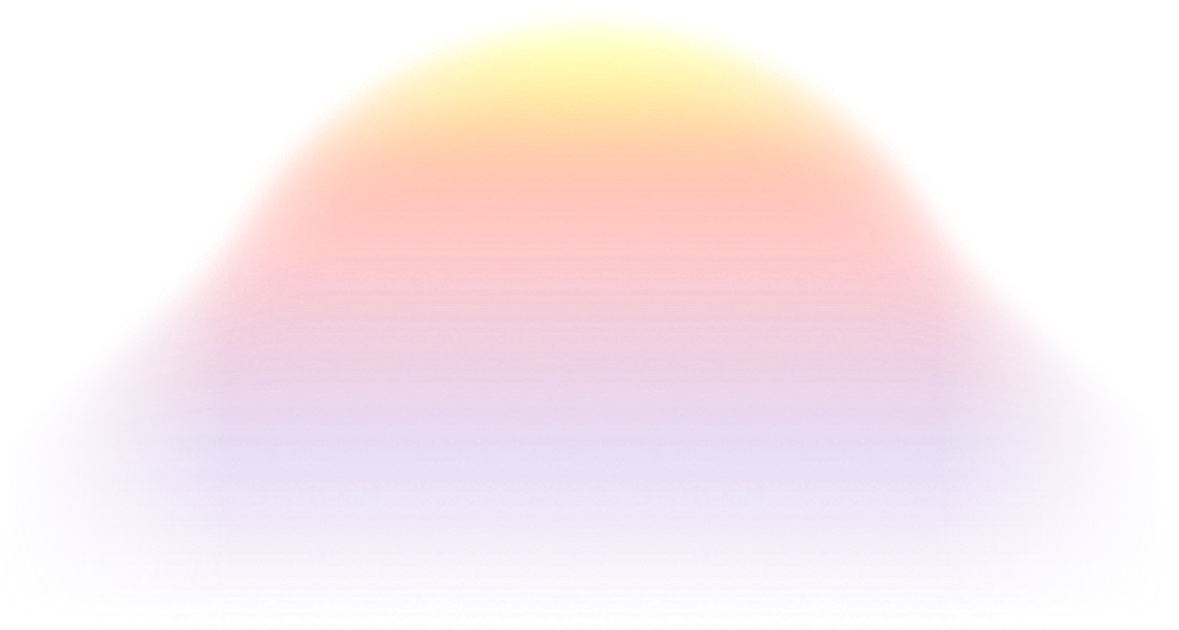
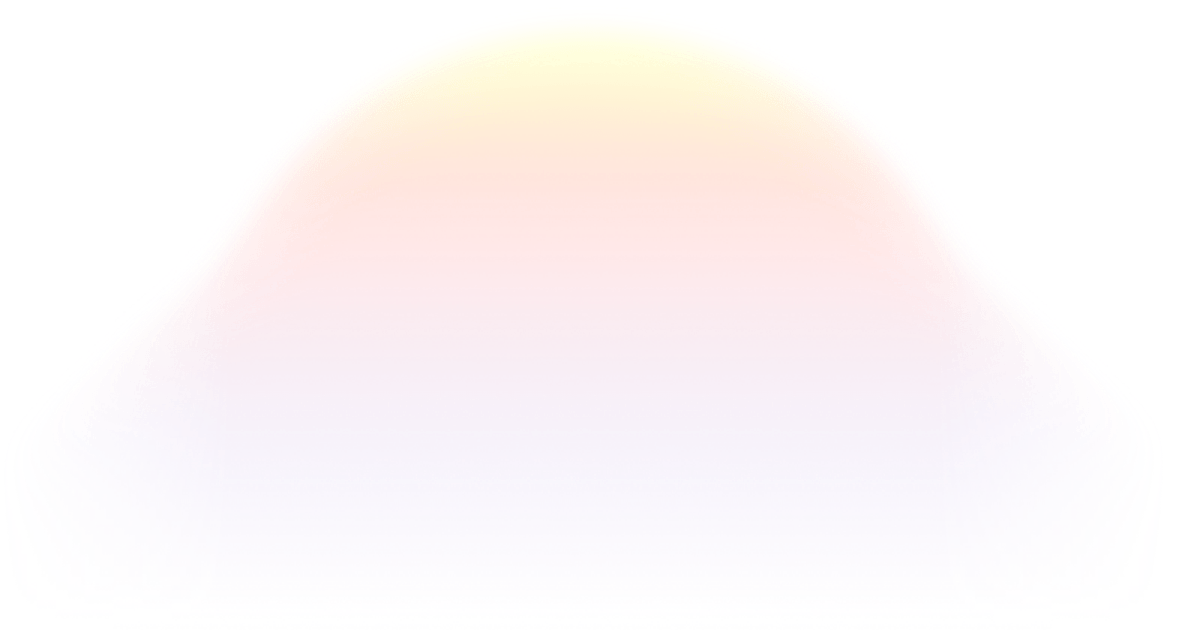
visual refine hill like figma, optimize hill png

Changed region(s): [[0.1527, 0.0302, 0.8244, 0.6635]]

diff --git a/src/components/king-of-the-hill/KingOfTheHillHeader.tsx b/src/components/king-of-the-hill/KingOfTheHillHeader.tsx
@@ -172,7 +172,7 @@ export const KingOfTheHillHeader = memo(function KingOfTheHillHeader({ kingOfThe
       </ButtonPressAnimation>
 
       {/* price */}
-      <Text color="label" size="30pt" weight="heavy" align="center" style={styles.currentPrice}>
+      <Text color="label" size="30pt" weight="heavy" align="center" style={styles.priceContainer}>
         {currentPrice}
       </Text>
 
@@ -353,8 +353,8 @@ const styles = StyleSheet.create({
   caretContainer: {
     marginLeft: 0,
   },
-  currentPrice: {
-    marginTop: 12,
+  priceContainer: {
+    marginTop: 11,
   },
   statsContainer: {
     flexDirection: 'row',

diff --git a/src/components/king-of-the-hill/KingOfTheHillContent.tsx b/src/components/king-of-the-hill/KingOfTheHillContent.tsx
@@ -222,11 +222,7 @@ const HillBackground = memo(function HillBackground({ scrollY }: { scrollY: Shar
         hillAnimatedStyle,
       ]}
     >
-      <FastImage
-        source={hillImage}
-        resizeMode="contain"
-        style={{ width: hillWidth, height: hillHeight, opacity: isDarkMode ? 0.3 : 0.6 }}
-      />
+      <FastImage source={hillImage} resizeMode="contain" style={{ width: hillWidth, height: hillHeight, opacity: isDarkMode ? 0.5 : 1 }} />
     </Animated.View>
   );
 });
